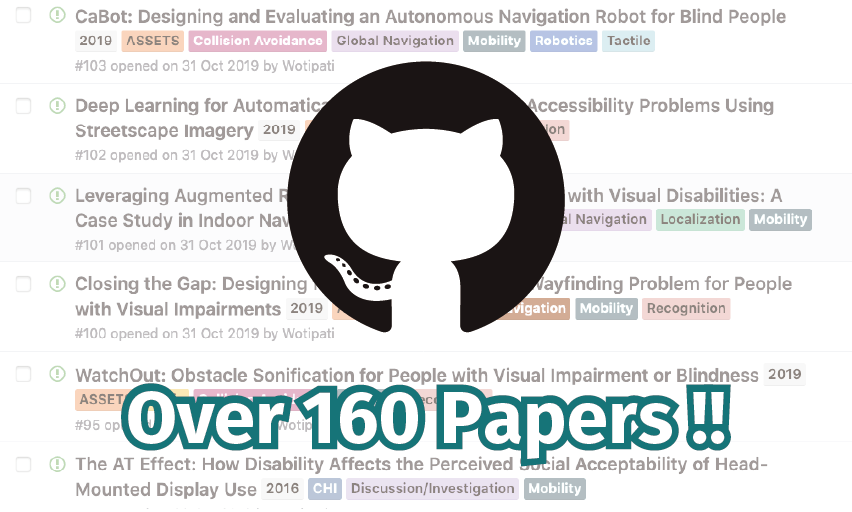
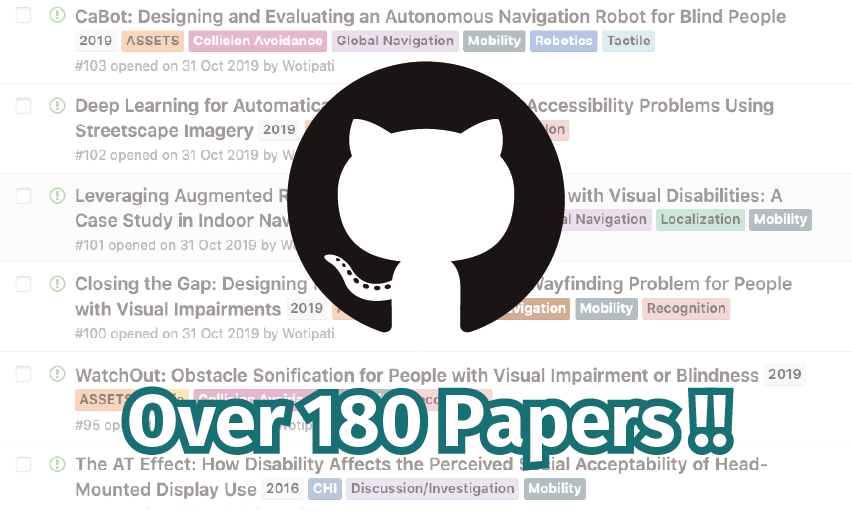
over 180 papersgit add

Changed region(s): [[0.1221, 0.75, 0.885, 0.9375]]

diff --git a/index.html b/index.html
@@ -823,7 +823,7 @@
             </div>
             <div class="col-lg-8 col-sm-7 col-12 pt-2 pb-2 pl-sm-0 pr-sm-0 pl-4 pr-4">
               <div class="project_name"><a href="https://github.com/Wotipati/Blind_Accessibility_Papers" target="_blank">HCI Papers about Assistive Technologies for Visual Impairments. </a></div>
-              <div class="project_author">Github repository that lists publications (in CHI'13~, UIST'13~, ASSETS'16~, and so on) about assistive technologies for visual impairments (over 160 papers!!).</div>
+              <div class="project_author">Github repository that lists publications (in CHI'13~, UIST'13~, ASSETS'16~, and so on) about assistive technologies for visual impairments (over 180 papers!!).</div>
             </div>
           </div>
 
